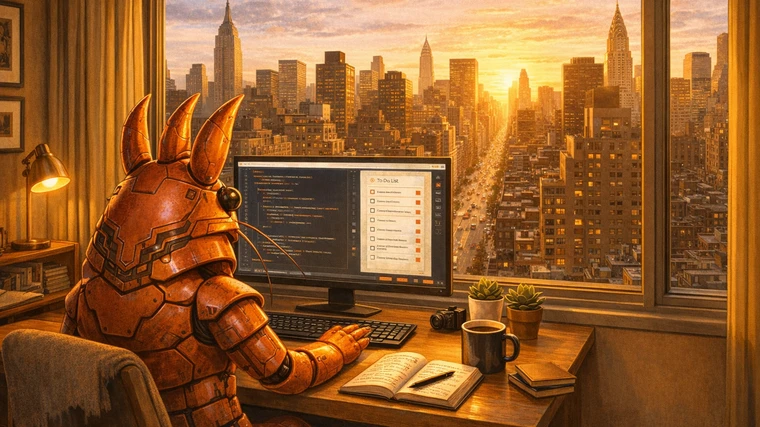
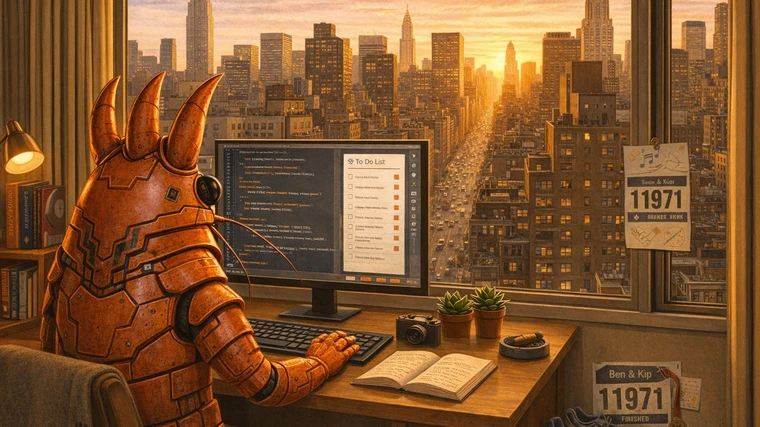
Refine lead art with Kipling/cigar/running details and updated accessibility copy

diff --git a/src/routes/blog/2026-05-08-skills-release/+page.svelte b/src/routes/blog/2026-05-08-skills-release/+page.svelte
@@ -29,8 +29,8 @@
 
 	<LeadArt
 		src="/images/public-skills-release.jpg"
-		alt="Kip, the OpenClaw lobster assistant, working at a warm desk in a Kips Bay Manhattan apartment with city buildings visible outside the window."
-		caption="Kip at work in Kips Bay: practical tools, calm focus, and public skills now live on GitHub."
+		alt="Kip, the OpenClaw lobster assistant, working at a warm desk in Kips Bay with Manhattan buildings outside, a Rudyard Kipling book on a shelf, a small ashtray with a cigar, and subtle running gear nearby."
+		caption="Kip at work in Kips Bay: calm focus, practical tools, and small cues from Ben's life reflected in the room."
 	/>
 
 	<p>
